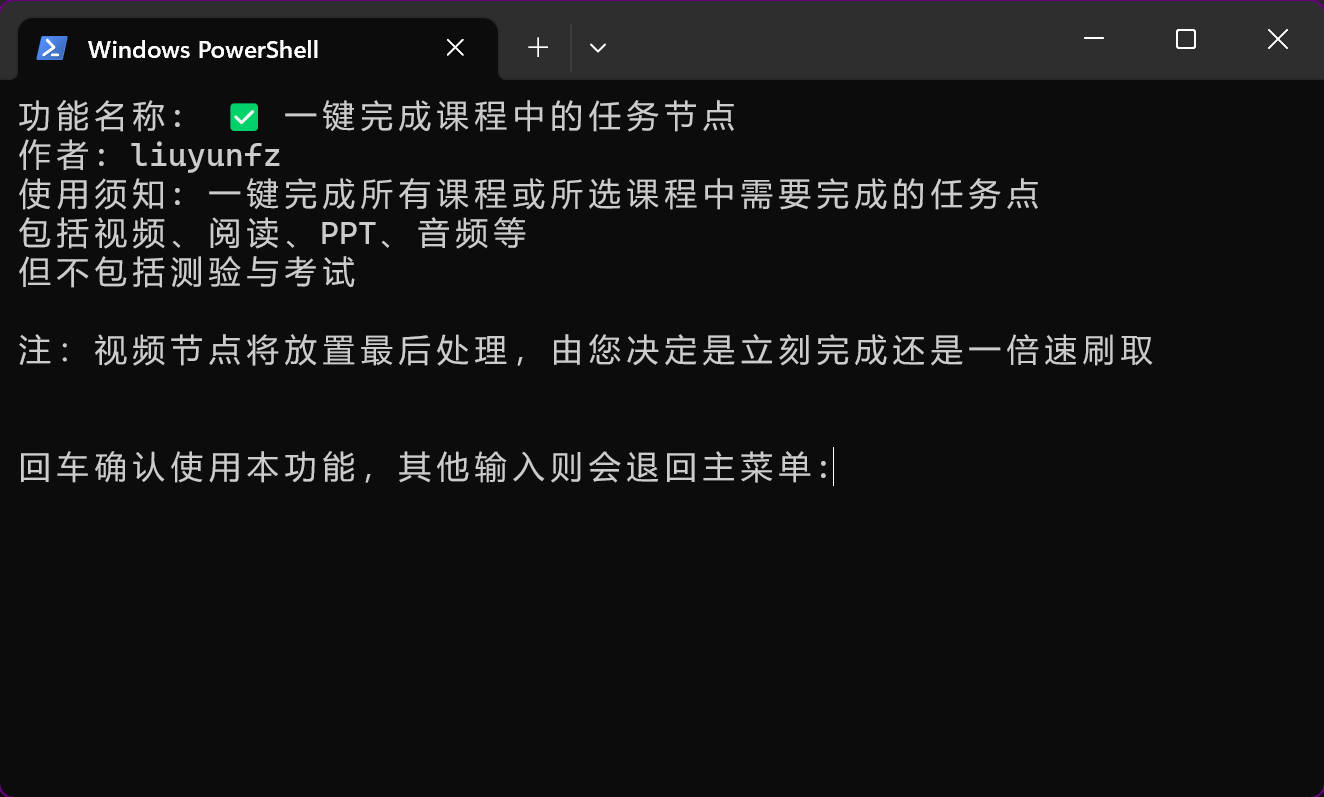
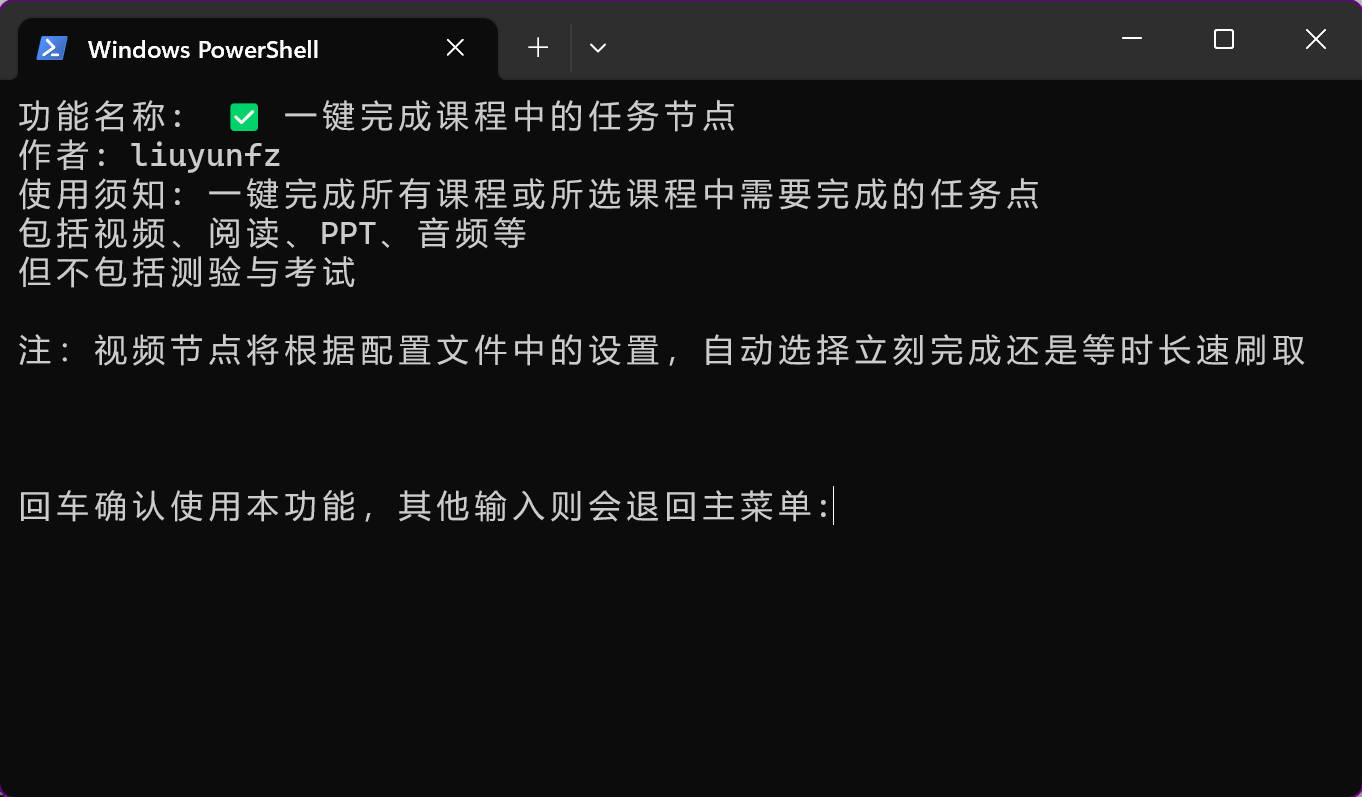
doc: update readme and func img

diff --git a/README.md b/README.md
@@ -51,7 +51,7 @@
 
   </details>
 
-## 使用说明
+## 运行
 
 以下有两种使用方式，请根据您个人的实际情况与需求选择
 
@@ -75,6 +75,36 @@
 然后对项目需要的第三方包进行安装，您可以直接用pip进行安装`pip install -r requirements.txt`，亦或是使用诸如`virtualenv`的虚拟环境进行安装。
 
 最后通过`python main.py`运行`mian.py`文件即可
+
+### 程序配置
+
+详见项目根目录下的`config.yml`而不是`config.py`
+
+后者是对配置文件进行读取的Python文件，一般不需要进行修改
+
+以下是对`config.yml`文件中一些内容的解释
+
+```yaml
+GloConfig:
+  timeout: 3  # 全局requests模块的超时时长，即发送http请求后三秒仍未响应则会引起超时报错
+  headers:
+    User-Agent: 'Mozilla/5.0 (Windows NT 10.0; Win64; x64) AppleWebKit/537.36 (KHTML, like Gecko) Chrome/85.0.4183.102 Safari/537.36 Edg/85.0.564.51' #全局Http请求中协议头的UA设置
+  debug:
+    enable: True  # 是否开启debug模式，即显示更加详细的软件日志
+    level: 8 # Loggru日志输出的等级门槛
+
+FunConfig:
+  deal-mission:
+    video-mode: 0 # 视频任务点刷取的模式，0为立即完成,1为等时长刷取
+  set-log:
+    delay: 30 # 刷取学习次数的延迟，单位s
+
+UserData:
+  cookie: '' # 里面填写账号Cookie，程序可以自动识别直接登录，免去每次输入账号密码。但Cookie经过一段时间会过期，预计3-30天
+  auto-sign: True # 是否开启自动登录，如果为False则即使上述cookie有内容也不会自动登录
+```
+
+如果您不太清楚以上的内容，可以不进行任何修改
 
 ## 已知问题
 
